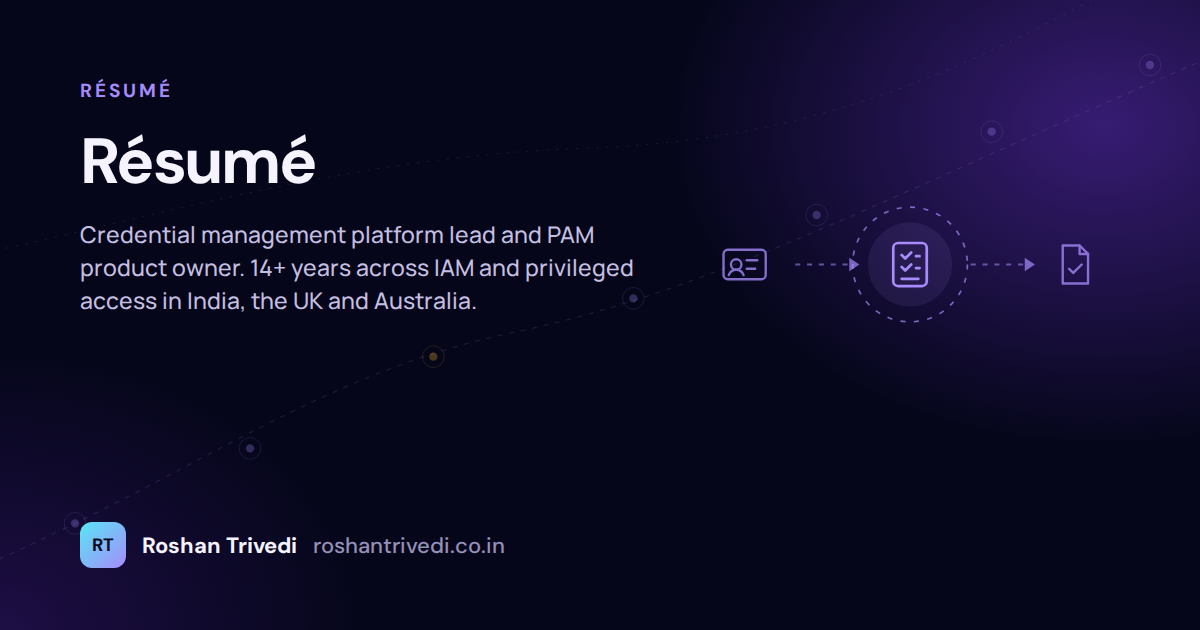
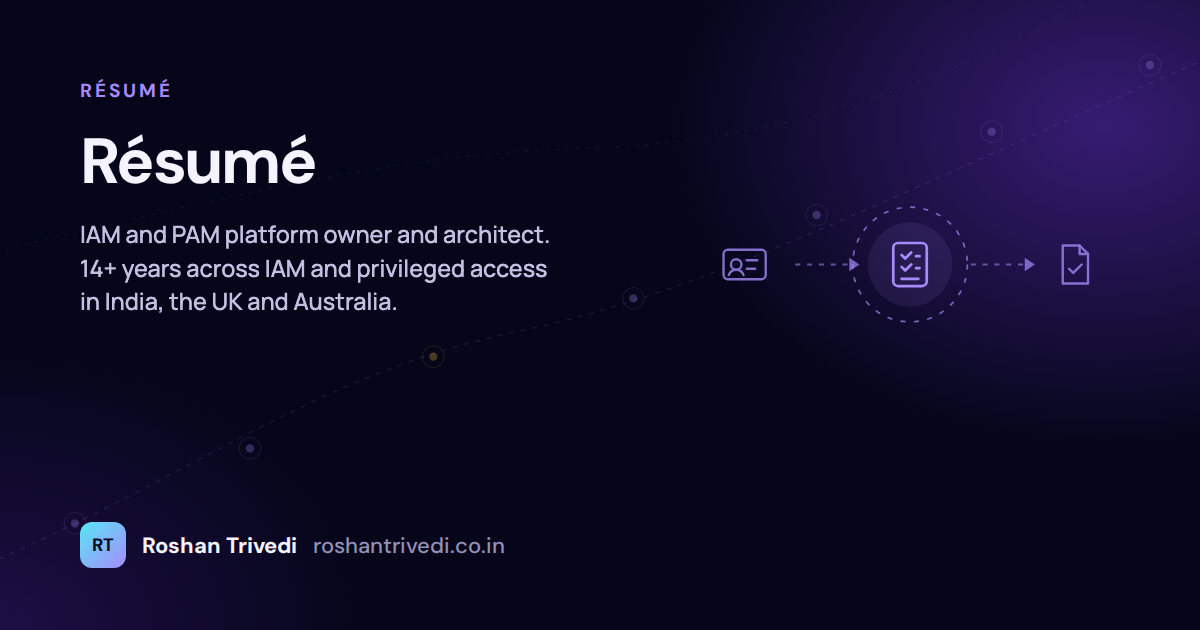
Share cards: home description and résumé image (#27)
* Résumé share image: new title line

* Home share card: longer description, new title

Changed region(s): [[0.0617, 0.3619, 0.5242, 0.5127]]

diff --git a/index.html b/index.html
@@ -20,11 +20,11 @@
     <meta property="og:type" content="website" />
     <meta
       property="og:title"
-      content="Roshan Trivedi · Identity Security Product Leader"
+      content="Roshan Trivedi · IAM &amp; PAM Platform Owner and Architect"
     />
     <meta
       property="og:description"
-      content="Credential Management Platform Owner building secure, scalable identity capabilities."
+      content="IAM and PAM platform owner and architect: privileged access, Zero Standing Privilege, non-human identity, and tested guardrails for AI agents."
     />
     <meta property="og:url" content="https://roshantrivedi.co.in/" />
     <meta
@@ -41,11 +41,11 @@
     <meta name="twitter:card" content="summary_large_image" />
     <meta
       name="twitter:title"
-      content="Roshan Trivedi · Identity Security Product Leader"
+      content="Roshan Trivedi · IAM &amp; PAM Platform Owner and Architect"
     />
     <meta
       name="twitter:description"
-      content="Credential Management Platform Owner building secure, scalable identity capabilities."
+      content="IAM and PAM platform owner and architect: privileged access, Zero Standing Privilege, non-human identity, and tested guardrails for AI agents."
     />
     <meta
       name="twitter:image"
